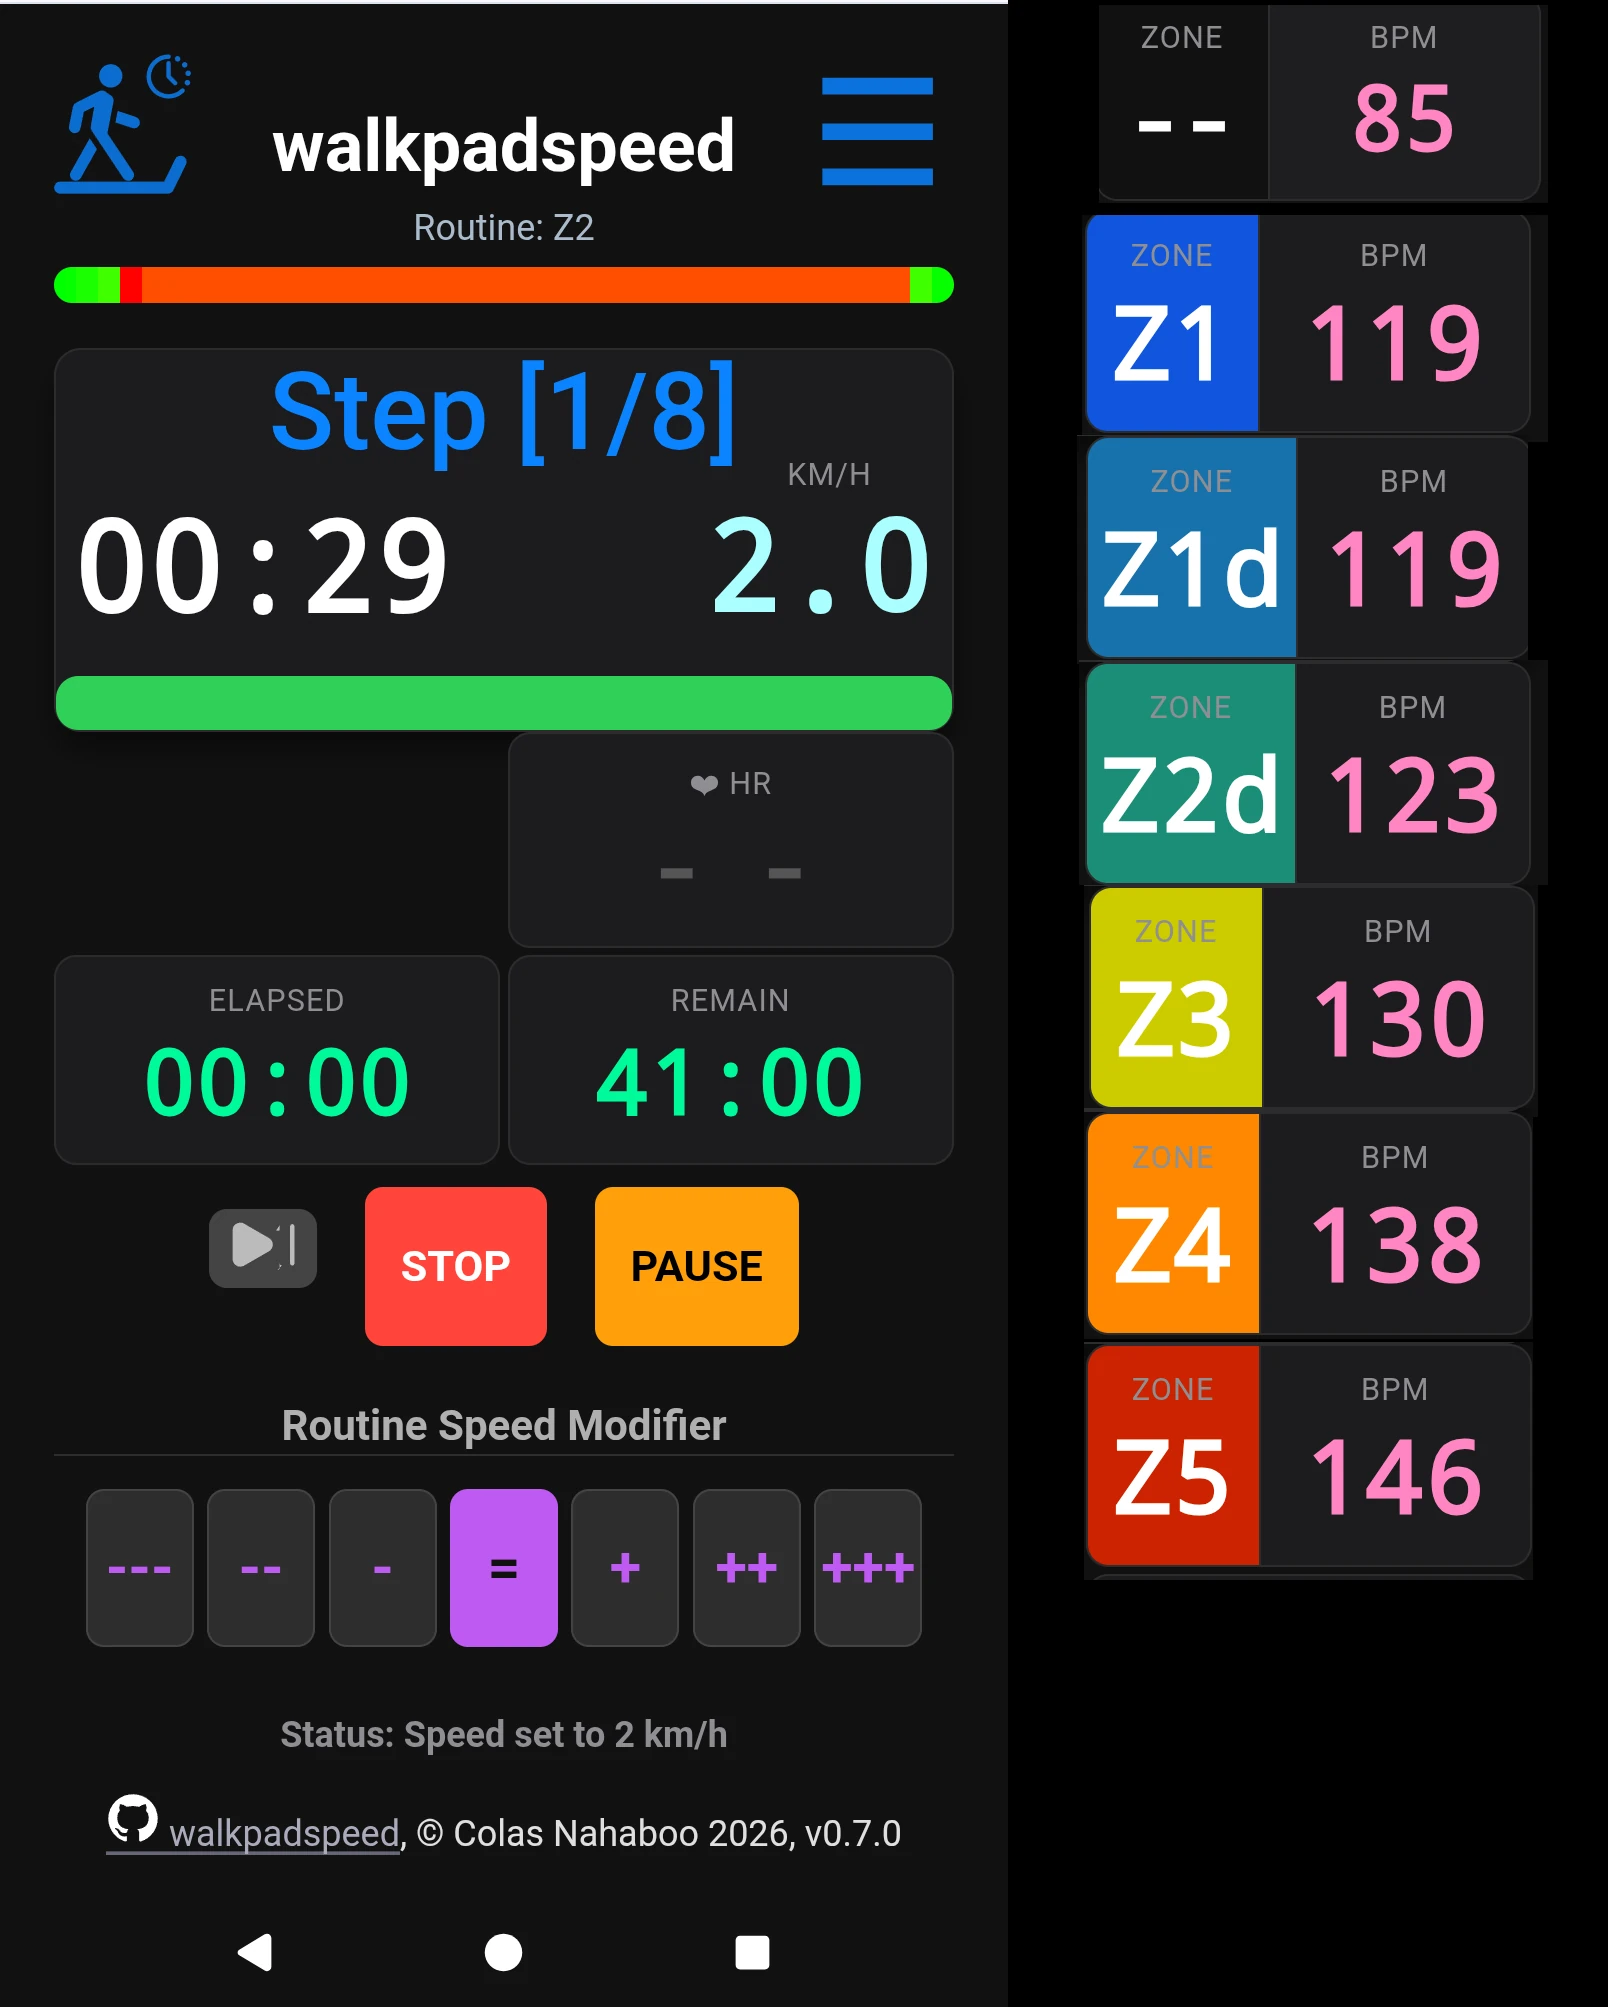
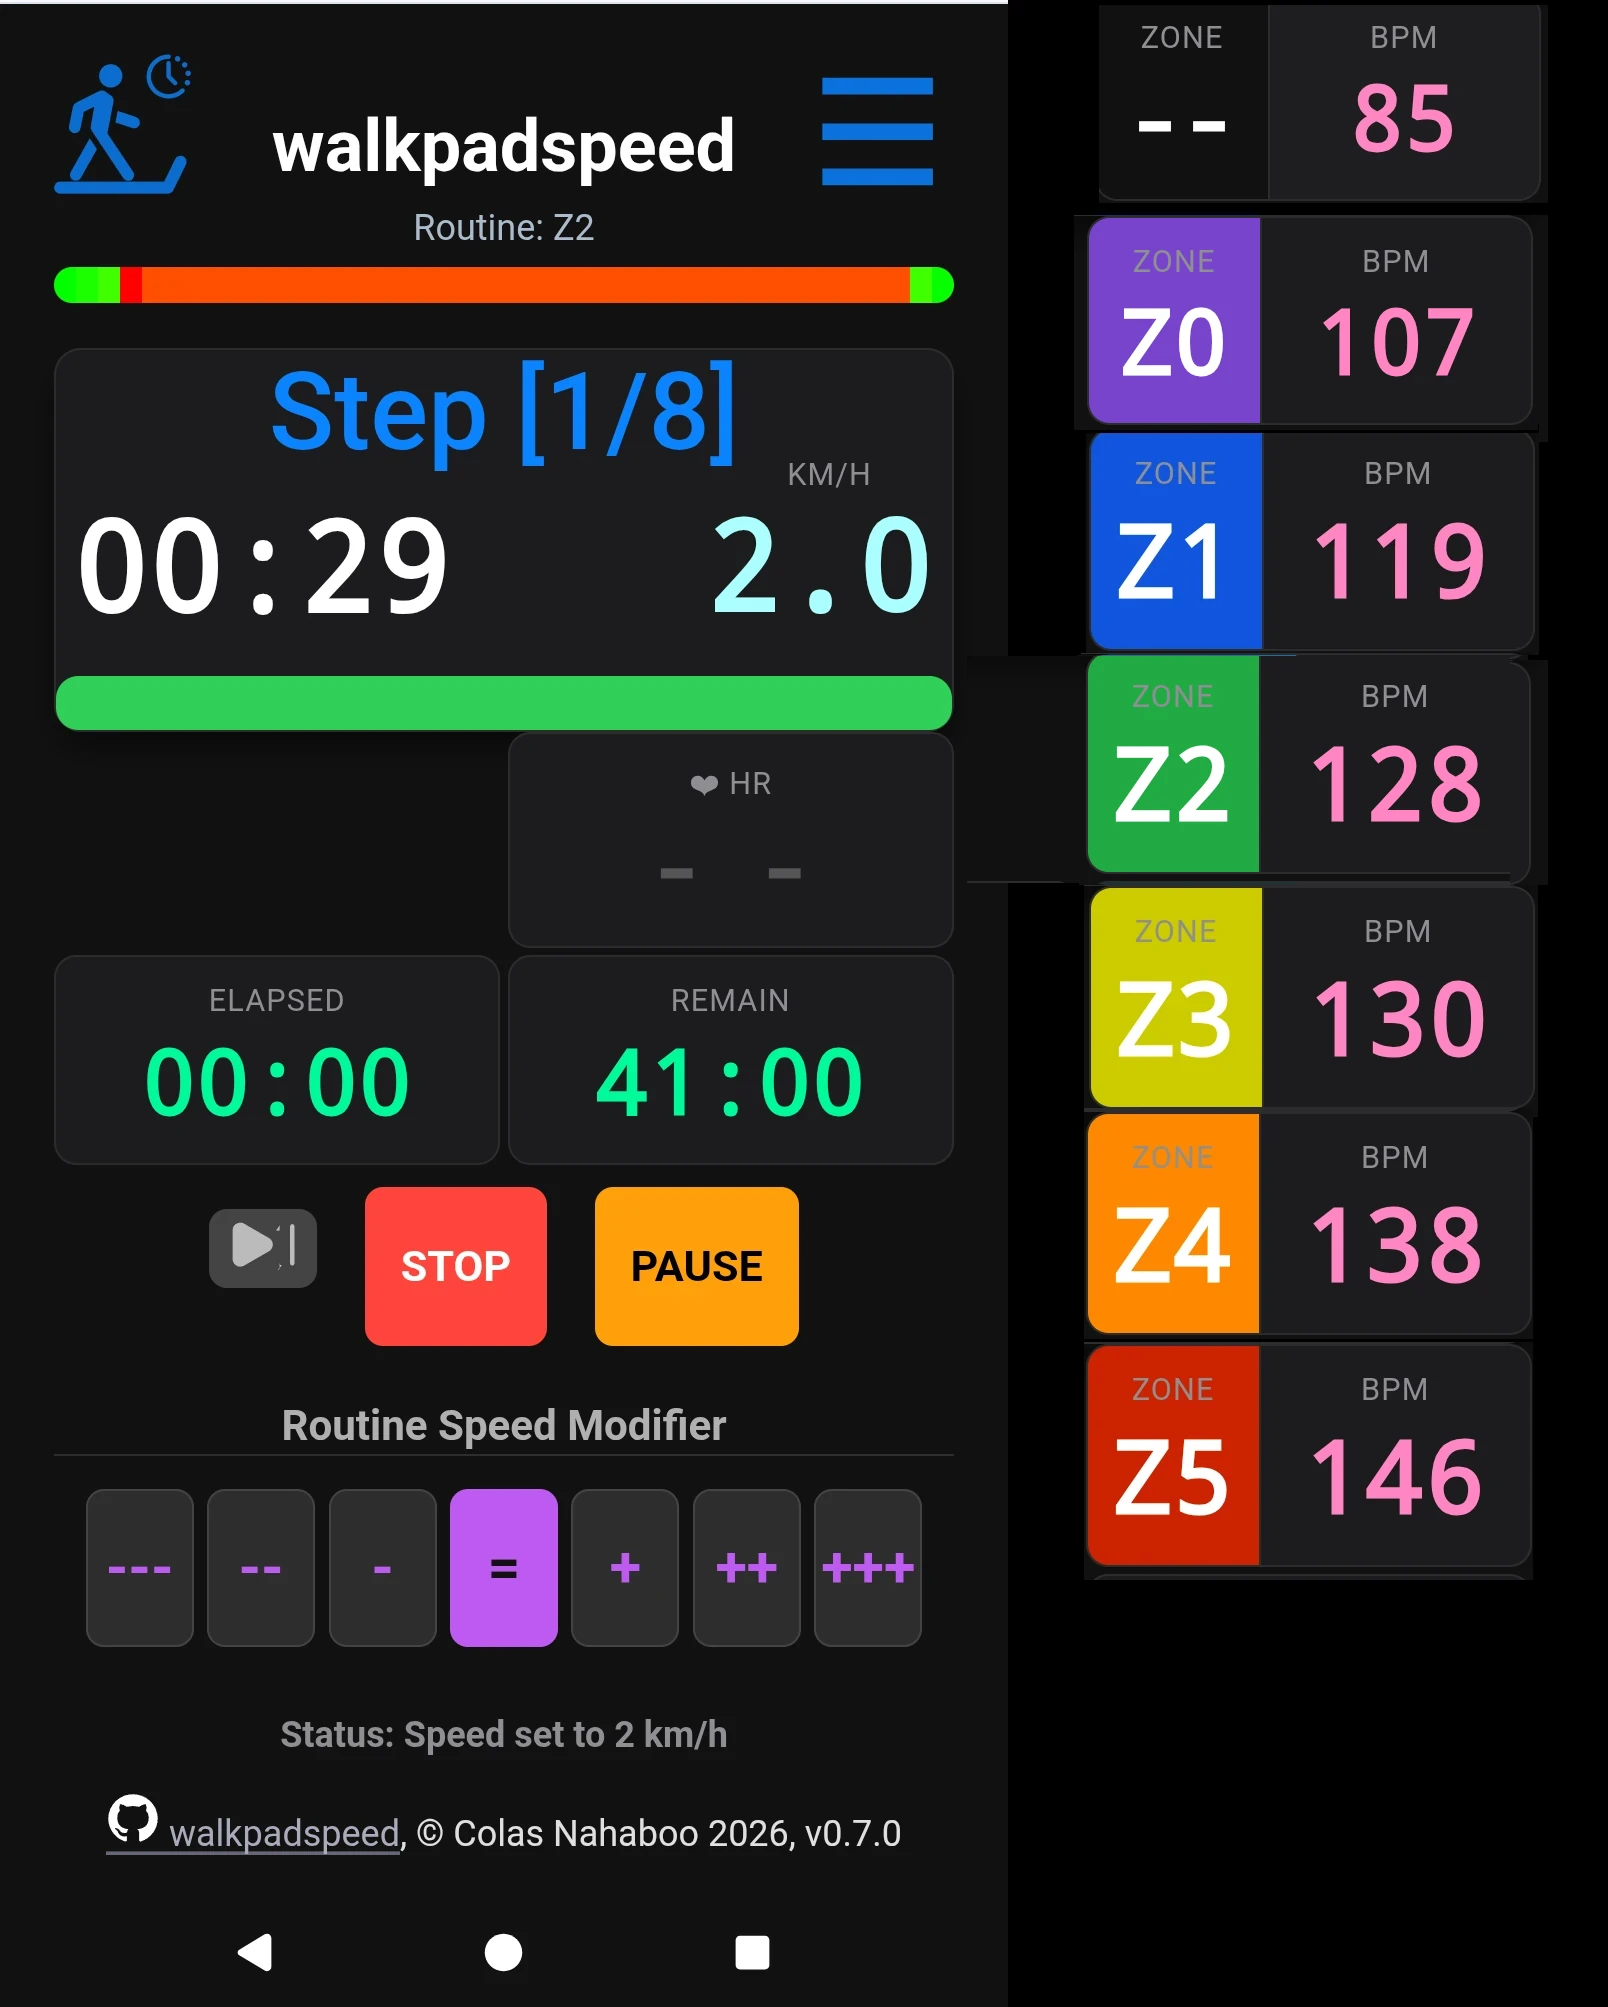
v0.7.2 speeds can be specified also with a target Zone. New Z0 zone for digestive walks (38-50% HRR)

Changed region(s): [[0.653, 0.0927, 0.9639, 0.4634]]

diff --git a/walkpadspeed.html b/walkpadspeed.html
@@ -1056,7 +1056,7 @@
       ---------------------------------------------------------------- */
       const HR_ZONE_COLORS = {
           null: '#111111',
-          0:    '#00ced1',  // Z0  35–50%  digestive         turquoise
+          0:    '#7744cc',  // Z0  35–50%  digestive         purple
           1:    '#1155dd',  // Z1  50–59%  recovery/light    blue
           2:    '#22aa44',  // Z2  60–69%  aerobic/fat burn  green
           3:    '#cccc00',  // Z3  70–79%  endurance         yellow
@@ -1069,7 +1069,7 @@
 
       // Zone boundaries as % of Heart Rate Reserve (HRR)
       const ZONE_BOUNDARIES = {
-          0: [0.35, 0.50],
+          0: [0.38, 0.50],
           1: [0.50, 0.60],
           2: [0.60, 0.70],
           3: [0.70, 0.80],

diff --git a/README.md b/README.md
@@ -84,7 +84,8 @@ Routines ("routines") are written in a plain text file you create yourself (in a
 - Each workout starts with a **name** on its own line.
 - Every line after that is one **step** of space-separated values:
   - **speed**, a number which can have a decimal, expressed in **km/h**. Note that all the walkpads use km/h internally anyways, since the bluetooth protocol imposes km/h as the speed unit, not mph. \
-  To express a speed in miles per hour, just append **mph** to it
+  To express a speed in miles per hour, just append **mph** to it.\
+    - **speed/Zone** If you are using a Heart Rate Monitor, the speed is ignored, and the pad speed will be progressively dynamically adjusted every 30s so that your heart rate stays in the chosen zone. E.g: `4.2/Z2 10m`, `3mph/Z4 1m`, `3.0/Z0 120`
   - **incline** (optional) a percent of incline as an integer postfixed by `%`.
   - **duration** of the step, a number (integer) of seconds. Can also be expressed in minutes if immediatelly followed by `mn` or `m`.
   - **name** (optional) You can optionally add a label after the duration, to name that step (e.g. "Warmup").
@@ -228,12 +229,11 @@ You can jump directly to any routine step by clicking on the list or "Routine st
 An **❤ HR** display is available under the speed display.
 If you wear an heart rate monitoring system (armband, chest band, smart watch...), you can activate at any time the **❤ HR** display by clicking onto it. The indicator will display your heart rate as a number of beats per minute, with the [cardio zone](https://learn.beyondpulse.com/blog/the-five-zones-of-heart-rate-training/) to its left:
 
-Walkpadspeed adds a pseudo zone "digestive" between the Z1 and Z2 zone, for the optimal digestive effort to reduce glycemic peaks after meals. The indicator will show it as `Z1d` (for the part inside Z1), and `Z2d` (for the part insize zone2).
+Walkpadspeed adds a pseudo zone "digestive" Z0 before the Z1 zone, for the optimal digestive effort to reduce glycemic peaks after meals.
 
 Values:
+- Z0  38-50%  digestive/glucose purple
 - Z1  50–55%  recovery/light    blue
-- Z1d 55-60%  Z1 digestive      blue-green
-- Z2d 60–65%  Z2 digestive      green-blue
 - Z2  65–70%  aerobic/fat burn  green
 - Z3  70–80%  endurance         yellow
 - Z4  80–90%  threshold         orange
@@ -362,6 +362,7 @@ Hardware Support & Core Blueprint: This control system operates across standard 
 
 ## History
 
+- v0.7.2 speeds can be specified also with a target Zone. New Zo zone for digestive walks (38-50% HRR)
 - v0.7.1 heart rate display is disabled if metadata `#hrm: 0` is in the routines file.
 - v0.7.0 tracks the heart rate with any device using the standard BLE heart_rate service (I use a coros armband)
 - v0.6.4 2026-07-03 released. When launching a routine, if the walkpad is not connected anymore (e.g. app is resumed after some hours), show the connection screen instead of running disconnected.